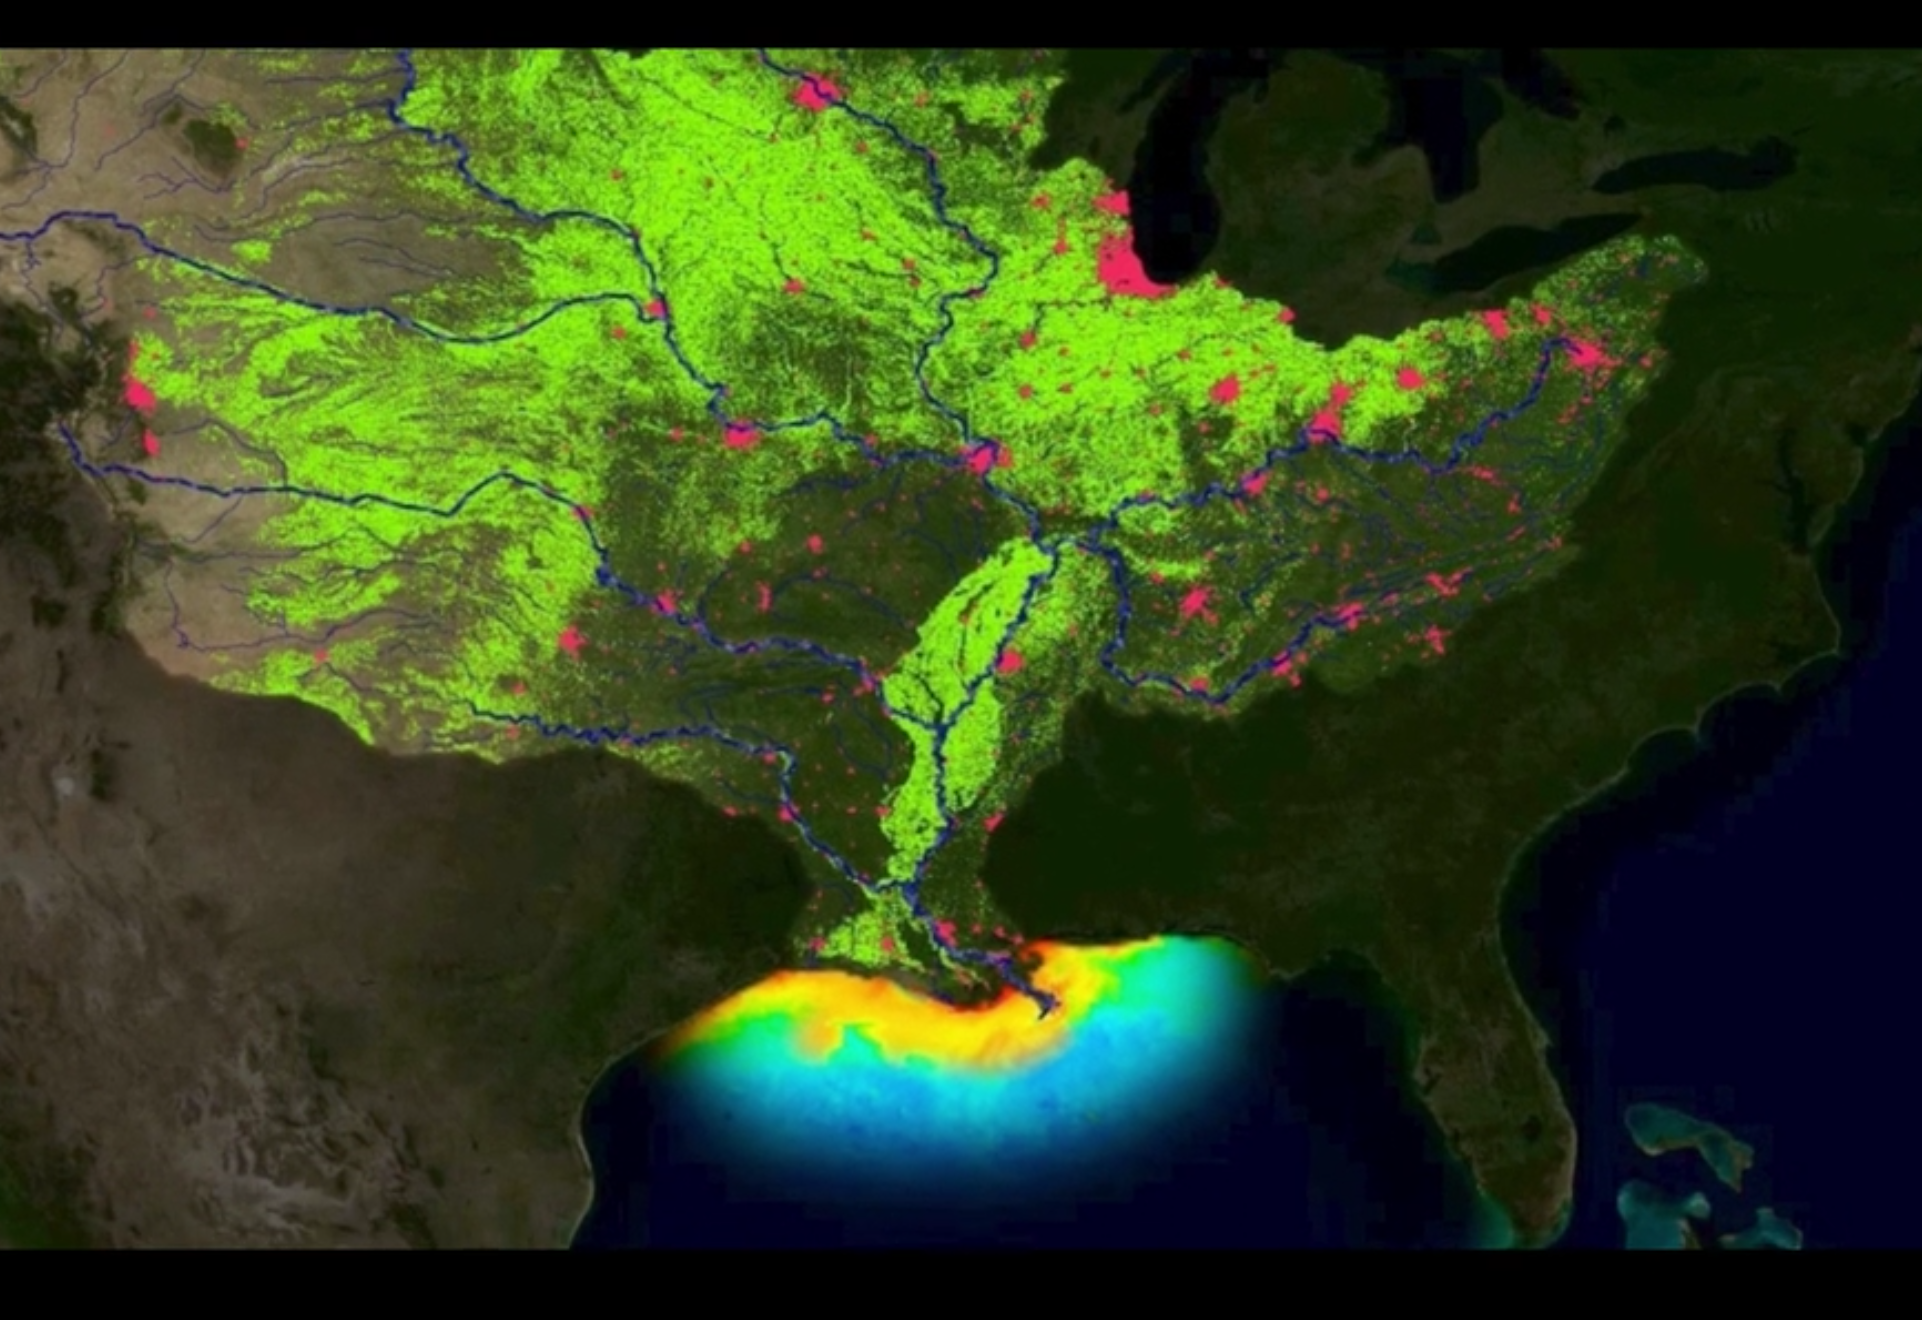
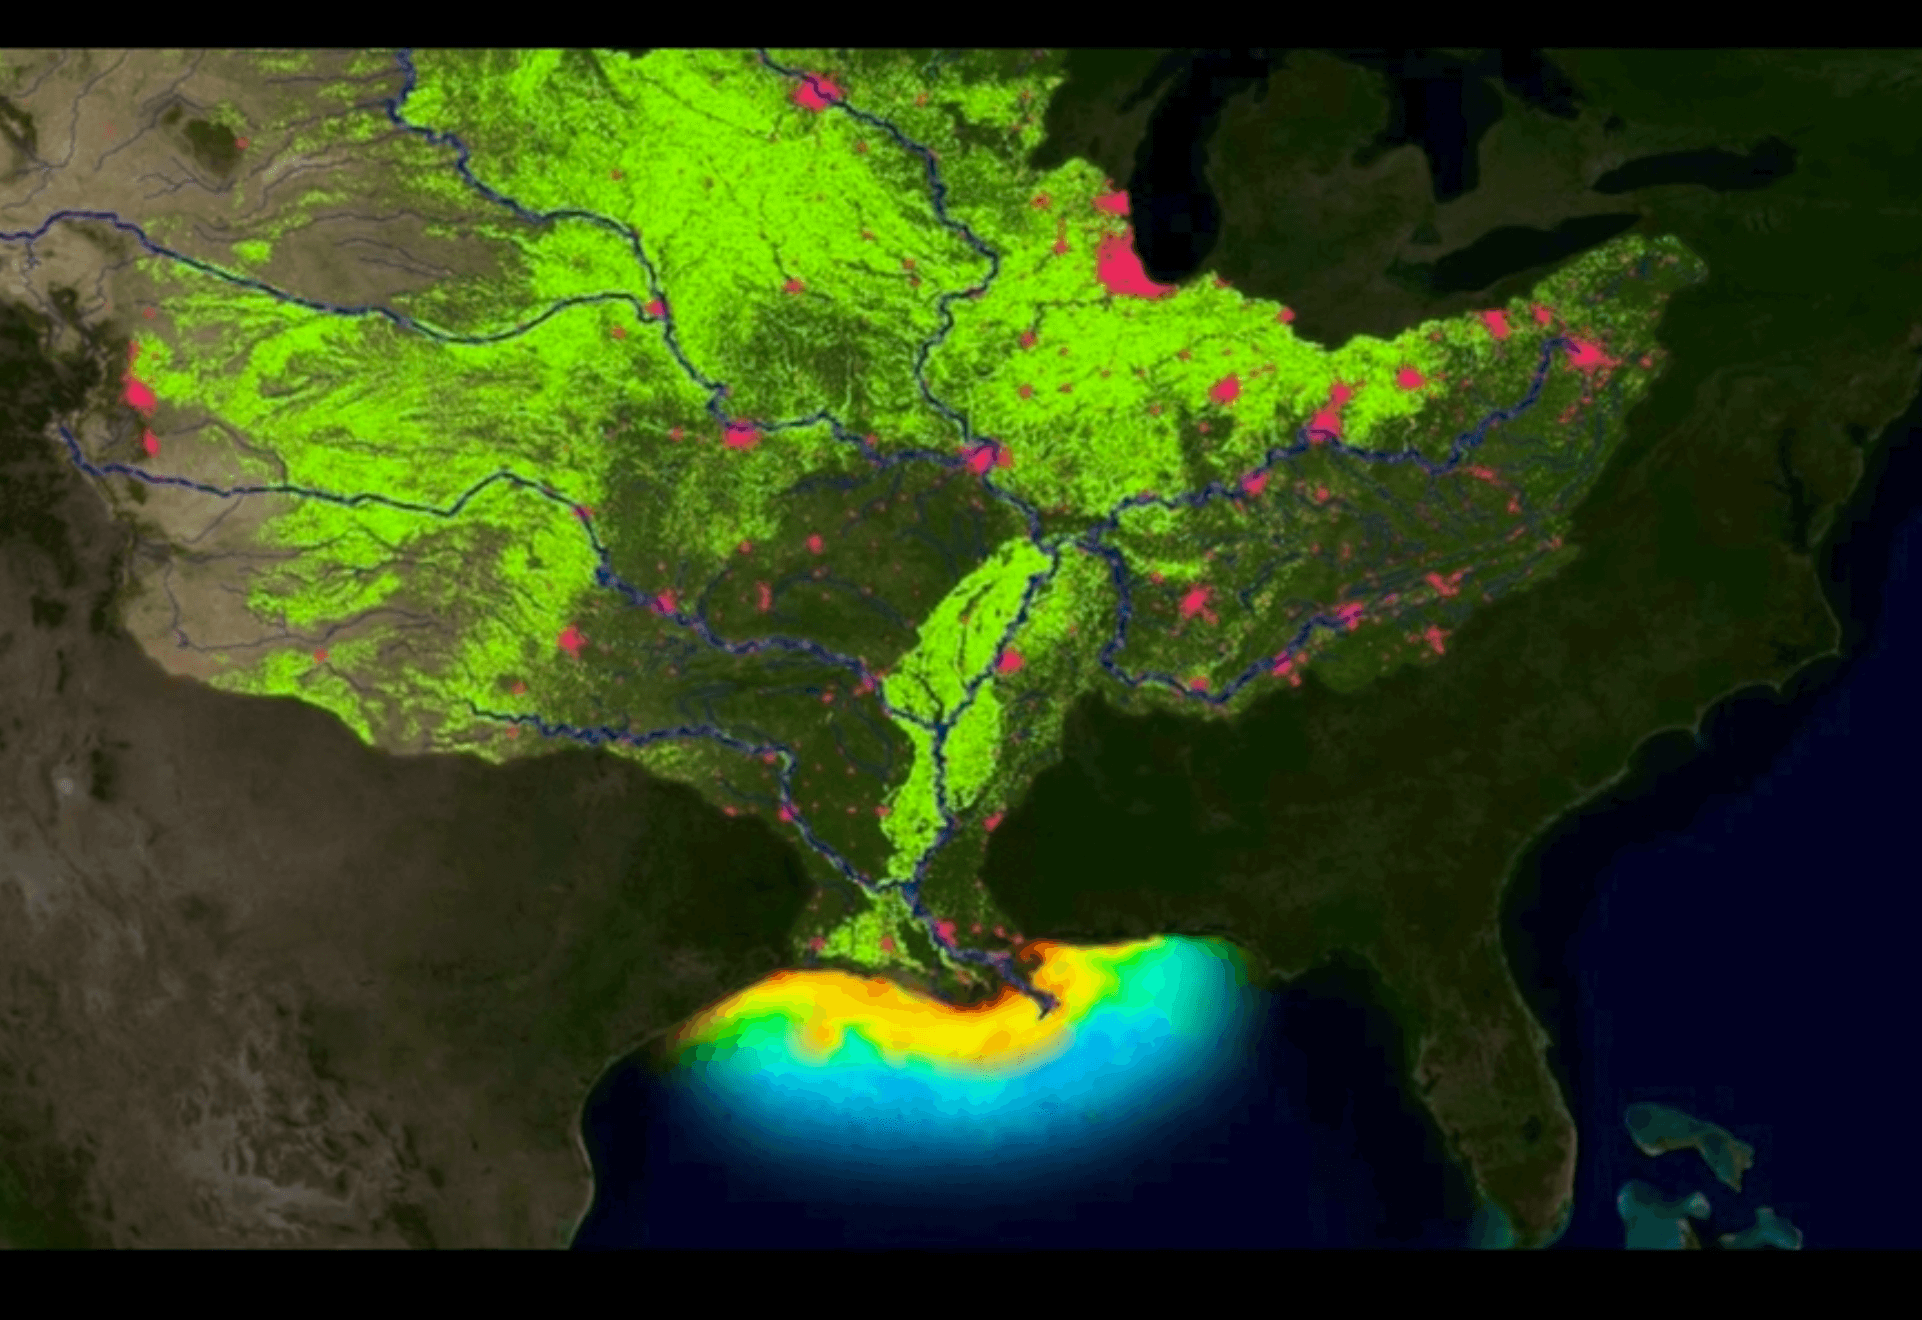
optimizing images

diff --git a/resources/views/articles/environment.blade.php b/resources/views/articles/environment.blade.php
@@ -123,7 +123,7 @@
     </div>
 </div>
 <br>
-<img class="article_header_image" src="/pla" alt="Plants reduce carbon dioxide in the atmosphere">
+<img class="article_header_image" src="/img/plants.jpeg" alt="Plants reduce carbon dioxide in the atmosphere">
 
 <div class="article_wrapper">
     <div class="article_container">
@@ -175,9 +175,10 @@
 
         <p class="content">Every minute, 7 million pounds of waste are produced by animals raised for consumption in the U.S. alone. Waste then mixes with nitrogen-based fertilizers to destroy ecosystems both on land and at sea.</p>
 
-        <img src="/img/deadzone.png" alt="Deadzone in the gulf of mexico" class="image_large">
-
         <p class="content"> In the Gulf of Mexico there is a 7,000 square mile “dead zone” where there is no aquatic life primarily due to pollution from animal waste and chemical fertilizers.</p>
+
+        <img src="/img/deadzone.jpg" alt="Deadzone in the gulf of mexico" class="image_large">
+
         <div class="forest_counter">Kilograms of waste produced by livestock since you opened this page: <span id="waste">0</span></div>
 
         <p class="content">Waste is doubly harmful. It negatively impacts ecosystems on land by destroying the soil composition and seeping into the water supply. Then when it runs off into the ocean, it creates oxygen-depleted deadzones where no fish can survive.</p>

diff --git a/config/app.php b/config/app.php
@@ -183,7 +183,6 @@ return [
         Intervention\Image\ImageServiceProvider::class,
         RenatoMarinho\LaravelPageSpeed\ServiceProvider::class,
 
-
     ],
 
     /*

diff --git a/app/Http/Controllers/ArticlesController.php b/app/Http/Controllers/ArticlesController.php
@@ -2,6 +2,7 @@
 
 namespace App\Http\Controllers;
 
+
 class ArticlesController extends Controller
 {
 

diff --git a/readme.md b/readme.md
@@ -2,7 +2,6 @@
 
 * ToDo: 
 - Meta tags & descriptions (make seo a partial)
-- Small steps article 
 - Pictures optimized 
 
 Nice to have: 
